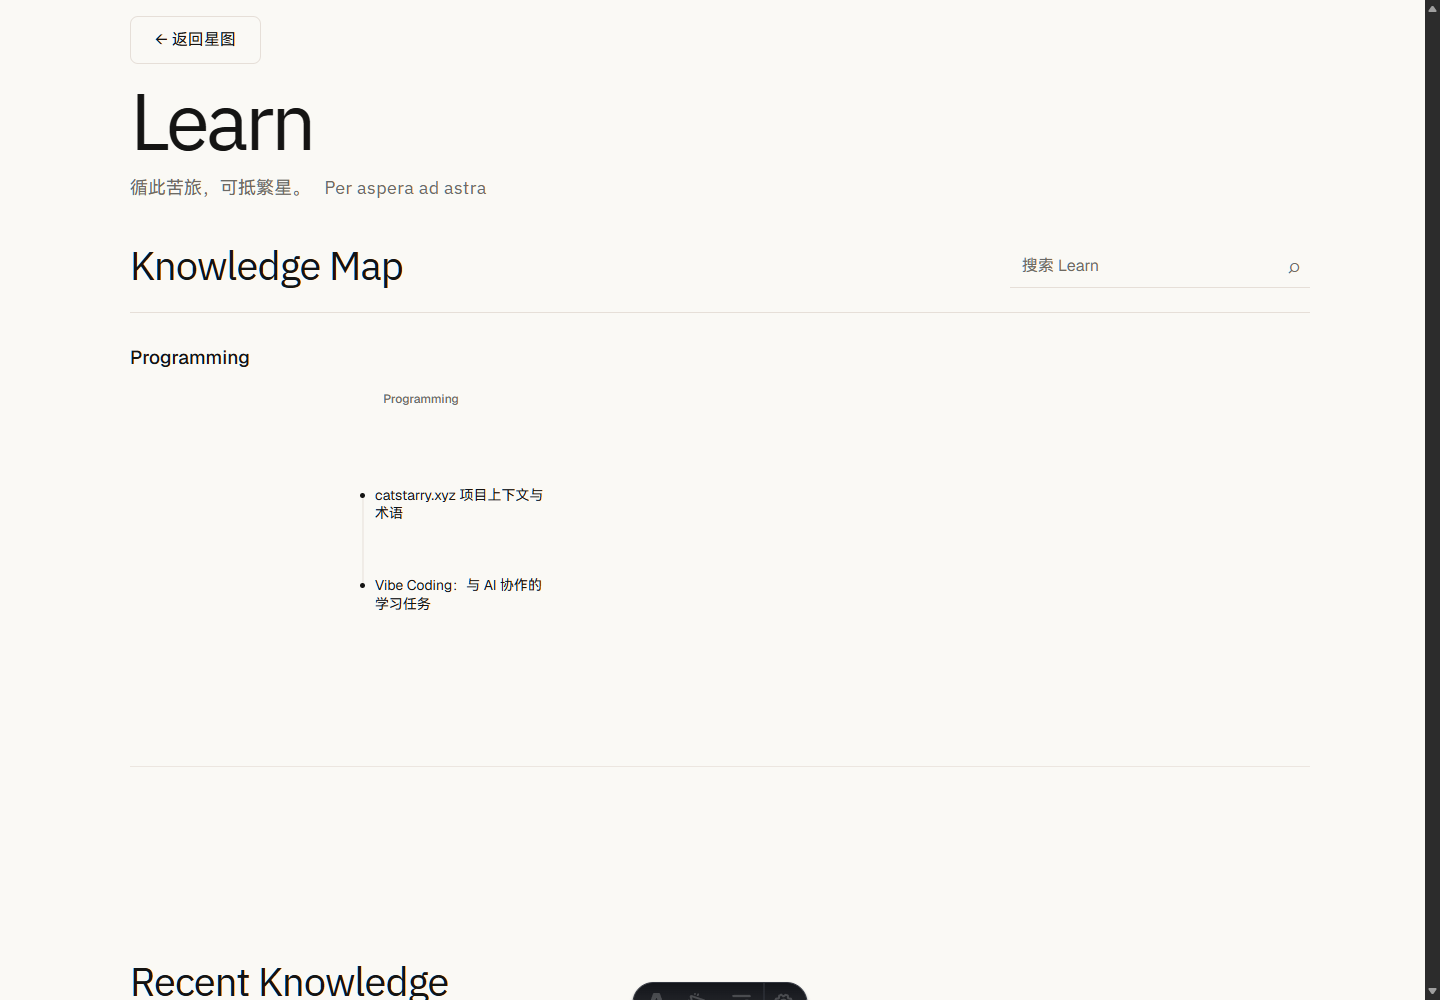
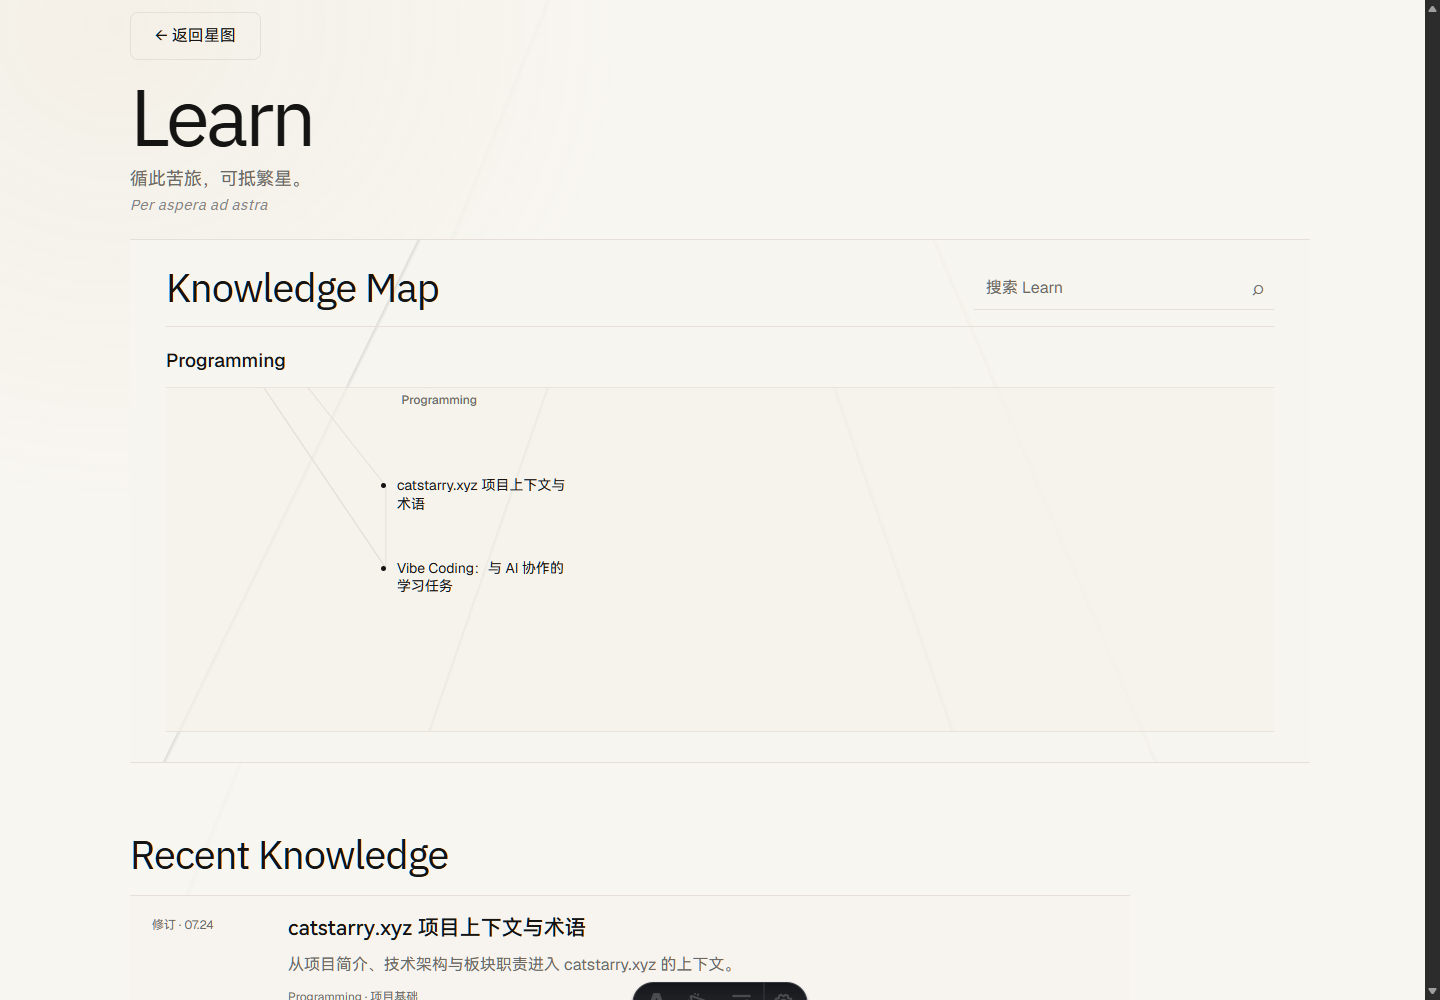
fix: restore Learn visual materiality

diff --git a/src/components/learn/learn.css b/src/components/learn/learn.css
@@ -1,8 +1,16 @@
 .learn-page,
 .learn-detail-page {
+  --learn-canvas: color-mix(in srgb, var(--content-gallery) 88%, var(--geo-cream));
+  --learn-field: color-mix(in srgb, var(--content-gallery) 72%, var(--content-surface-card));
+  --learn-field-deep: color-mix(in srgb, var(--content-gallery) 52%, var(--content-surface-card));
+  --learn-functional: color-mix(in srgb, var(--content-gallery) 58%, var(--warm-150));
+  --learn-engraving: color-mix(in srgb, var(--geo-graphite) 14%, transparent);
   min-block-size: 100svh;
   color: var(--content-text-primary);
-  background: var(--content-gallery);
+  background:
+    linear-gradient(112deg, transparent 0 28%, color-mix(in srgb, var(--geo-mineral) 5%, transparent) 28.1%, transparent 28.35%),
+    radial-gradient(ellipse at 8% 2%, color-mix(in srgb, var(--geo-sand) 9%, transparent), transparent 32rem),
+    var(--learn-canvas);
 }
 
 .learn-page *,
@@ -52,8 +60,8 @@
   display: grid;
   align-content: center;
   width: min(100%, 760px);
-  min-block-size: clamp(180px, 20vw, 210px);
-  padding-block: var(--space-md) var(--space-lg);
+  min-block-size: clamp(190px, 18vw, 210px);
+  padding-block: 12px 18px;
 }
 
 .learn-opening .page-home-nav { margin-block-end: clamp(10px, 1.4vw, 18px); }
@@ -64,24 +72,55 @@
   letter-spacing: -.045em;
 }
 .learn-opening__motto {
-  display: flex;
-  flex-wrap: wrap;
-  gap: .35em .8em;
-  margin: var(--space-md) 0 0;
+  display: grid;
+  gap: 2px;
+  justify-items: start;
+  margin: 12px 0 0;
   color: var(--content-text-secondary);
   font-size: clamp(15px, 1.4vw, 18px);
-  line-height: 1.6;
+  line-height: 1.45;
 }
-.learn-opening__motto span { font-family: var(--font-display); letter-spacing: .02em; }
-.learn-empty-corpus { margin: clamp(32px, 7vw, 96px) 0; color: var(--content-text-secondary); }
+.learn-opening__motto-cn { display: block; }
+.learn-opening__motto-latin {
+  display: block;
+  color: color-mix(in srgb, var(--content-text-secondary) 82%, var(--learn-canvas));
+  font: italic 400 .84em/1.4 var(--font-display);
+  letter-spacing: .025em;
+}
+.learn-empty-corpus {
+  min-block-size: 260px;
+  padding: 32px clamp(22px, 3vw, 36px);
+  margin: 8px 0 72px;
+  color: var(--content-text-secondary);
+  background: var(--learn-field);
+  border-block: 1px solid var(--content-hairline);
+}
 
-.learn-knowledge-map { min-block-size: clamp(500px, 45vw, 620px); padding-block: var(--space-md) var(--space-2xl); }
+.learn-knowledge-map {
+  position: relative;
+  min-block-size: 500px;
+  padding: 24px clamp(20px, 3vw, 36px) 30px;
+  margin-block-start: 6px;
+  overflow: clip;
+  background: var(--learn-field);
+  border-block: 1px solid var(--content-hairline);
+}
+.learn-knowledge-map::before {
+  position: absolute;
+  inset: 0;
+  content: '';
+  pointer-events: none;
+  background:
+    linear-gradient(116deg, transparent 0 20%, var(--learn-engraving) 20.08%, transparent 20.35%),
+    linear-gradient(67deg, transparent 0 73%, color-mix(in srgb, var(--geo-mineral) 8%, transparent) 73.1%, transparent 73.4%);
+}
+.learn-knowledge-map > * { position: relative; }
 .learn-knowledge-map__header {
   display: flex;
   gap: var(--space-xl);
   align-items: end;
   justify-content: space-between;
-  padding-block-end: var(--space-lg);
+  padding-block-end: 16px;
   border-block-end: 1px solid var(--content-hairline);
 }
 .learn-knowledge-map h2,
@@ -102,7 +141,7 @@
   padding: 9px 42px 9px 12px;
   color: var(--content-text-primary);
   font: inherit;
-  background: transparent;
+  background: color-mix(in srgb, var(--learn-functional) 76%, transparent);
   border: 0;
   border-block-end: 1px solid var(--content-hairline);
   border-radius: 0;
@@ -133,8 +172,8 @@
 .learn-track-directory {
   display: flex;
   flex-wrap: wrap;
-  gap: 6px clamp(28px, 5vw, 72px);
-  padding-block: 22px 8px;
+  gap: 4px clamp(28px, 5vw, 72px);
+  padding-block: 12px 4px;
 }
 .learn-track-directory a {
   position: relative;
@@ -159,9 +198,13 @@
 
 .learn-graph {
   position: relative;
-  height: clamp(350px, 27vw, 380px);
+  height: clamp(320px, 24vw, 350px);
   overflow: clip;
-  border-block-end: 1px solid color-mix(in srgb, var(--content-hairline) 70%, transparent);
+  background:
+    linear-gradient(109deg, transparent 0 31%, color-mix(in srgb, var(--geo-graphite) 6%, transparent) 31.08%, transparent 31.3%),
+    linear-gradient(71deg, transparent 0 64%, color-mix(in srgb, var(--geo-mineral) 9%, transparent) 64.08%, transparent 64.4%),
+    color-mix(in srgb, var(--learn-field-deep) 68%, transparent);
+  border-block: 1px solid color-mix(in srgb, var(--content-hairline) 82%, transparent);
 }
 .learn-graph__edges { position: absolute; inset: 0; width: 100%; height: 100%; overflow: visible; }
 .learn-graph__edges line {
@@ -211,14 +254,18 @@
 .learn-graph[data-active-track="art"] .learn-graph__node:not([data-track="art"]) { opacity: .42; }
 .learn-graph[data-active-track="programming"] .learn-graph__node:not([data-track="programming"]) { opacity: .42; }
 
-.learn-recent { width: min(100%, 960px); padding-block: clamp(64px, 9vw, 112px) clamp(100px, 14vw, 180px); }
-.learn-recent > h2 { margin-block-end: var(--space-xl); }
-.learn-note-rows { border-block-start: 1px solid var(--content-hairline); }
+.learn-recent { width: min(100%, 1000px); padding-block: clamp(44px, 6vw, 68px) clamp(76px, 9vw, 112px); }
+.learn-recent > h2 { margin-block-end: 18px; }
+.learn-note-rows {
+  padding-inline: clamp(14px, 2vw, 22px);
+  background: color-mix(in srgb, var(--learn-functional) 72%, transparent);
+  border-block-start: 1px solid var(--content-hairline);
+}
 .learn-note-row {
   display: grid;
   grid-template-columns: minmax(0, 1fr);
-  gap: var(--space-lg);
-  padding-block: var(--space-lg);
+  gap: 18px;
+  padding-block: 18px;
   border-block-end: 1px solid var(--content-hairline);
 }
 .learn-note-row--recent { grid-template-columns: 118px minmax(0, 1fr); }
@@ -230,23 +277,44 @@
 .learn-note-row__context { margin: 10px 0 0; color: var(--content-text-secondary); font-size: var(--text-xs); }
 
 .learn-track-shell { width: min(1180px, calc(100% - 2 * clamp(24px, 5vw, 80px))); margin-inline: auto; }
-.learn-track-header { width: min(100%, 880px); padding-block: clamp(48px, 8vw, 104px) clamp(36px, 5vw, 72px); }
+.learn-track-header { width: min(100%, 880px); padding-block: clamp(36px, 5vw, 64px) clamp(28px, 4vw, 44px); }
 .learn-track-header h1 { margin: 20px 0 16px; font: 400 clamp(3rem, 7vw, 5.4rem)/1 var(--font-display); letter-spacing: -.045em; }
 .learn-track-header p { max-width: 720px; margin: 0; color: var(--content-text-secondary); font-size: clamp(16px, 1.5vw, 19px); line-height: 1.75; }
 .learn-track-header,
 .learn-section-nav,
 .learn-track-groups { margin-inline: auto; }
-.learn-section-nav { display: flex; flex-wrap: wrap; gap: 8px 28px; max-width: 1000px; padding-block: 18px; border-block: 1px solid var(--content-hairline); }
+.learn-section-nav {
+  display: flex;
+  flex-wrap: wrap;
+  gap: 6px 28px;
+  max-width: 1000px;
+  padding: 12px 18px;
+  background: var(--learn-functional);
+  border-block: 1px solid var(--content-hairline);
+}
 .learn-section-nav a { display: inline-flex; min-block-size: var(--interaction-hit-size); align-items: center; color: var(--content-text-secondary); text-decoration: none; }
 .learn-section-nav a:is(:hover, :focus-visible) { color: var(--klein-500); }
-.learn-track-groups { width: min(100%, 1000px); padding-block: clamp(48px, 7vw, 88px); }
-.learn-track-section + .learn-track-section { margin-block-start: clamp(56px, 8vw, 96px); }
+.learn-track-groups {
+  width: min(100%, 1000px);
+  padding: clamp(34px, 5vw, 56px) clamp(18px, 3vw, 34px);
+  background:
+    linear-gradient(114deg, transparent 0 78%, color-mix(in srgb, var(--geo-mineral) 7%, transparent) 78.08%, transparent 78.35%),
+    var(--learn-field);
+  border-block-end: 1px solid var(--content-hairline);
+}
+.learn-track-section + .learn-track-section { margin-block-start: clamp(40px, 5vw, 64px); }
 .learn-track-section h2 { margin-block-end: 18px; font: 500 clamp(22px, 2.6vw, 32px)/1.3 var(--font-cjk); }
-.learn-track-return { margin-block: 0 clamp(96px, 14vw, 180px); }
+.learn-track-return { margin-block: 28px clamp(64px, 9vw, 96px); }
 
 .learn-detail-page__shell { width: min(1220px, calc(100% - 2 * clamp(20px, 4vw, 64px))); margin-inline: auto; }
-.learn-detail-page__shell > .learn-detail-page__back { margin-block-start: clamp(24px, 4vw, 56px); }
-.learn-detail-page__header { width: min(100%, 880px); margin-inline: auto; padding-block: clamp(52px, 7vw, 96px) clamp(48px, 6vw, 76px); }
+.learn-detail-page__shell > .learn-detail-page__back { margin-block-start: clamp(20px, 3vw, 36px); }
+.learn-detail-page__header {
+  width: min(100%, 920px);
+  margin-inline: auto;
+  padding: clamp(38px, 5vw, 62px) clamp(20px, 3vw, 36px) clamp(34px, 4vw, 50px);
+  background: color-mix(in srgb, var(--learn-field) 70%, transparent);
+  border-block-end: 1px solid var(--content-hairline);
+}
 .learn-detail-page__context { margin: 0 0 12px; color: var(--content-text-secondary); }
 .learn-detail-page__context a { color: inherit; text-decoration: none; }
 .learn-detail-page__context a:is(:hover, :focus-visible) { color: var(--klein-500); }
@@ -254,11 +322,33 @@
 .learn-detail-page__header h1 { margin: 22px 0 20px; font: 500 clamp(2.5rem, 5.8vw, 5rem)/1.08 var(--font-cjk); letter-spacing: -.035em; text-wrap: balance; }
 .learn-detail-page__excerpt { max-width: 760px; margin: 0; color: var(--content-text-secondary); font-size: clamp(17px, 1.7vw, 21px); line-height: 1.75; text-wrap: pretty; }
 
-.learn-reading-layout { width: min(100%, 760px); margin-inline: auto; }
-.learn-reading-layout--related { display: grid; grid-template-columns: minmax(170px, 210px) minmax(0, 760px); gap: clamp(48px, 6vw, 80px); width: min(100%, 1010px); }
-.learn-related { align-self: start; position: sticky; inset-block-start: 32px; max-block-size: calc(100svh - 64px); overflow: hidden; padding-block-start: 4px; }
+.learn-reading-layout {
+  width: min(100%, 840px);
+  padding: clamp(28px, 4vw, 40px);
+  margin-inline: auto;
+  background:
+    linear-gradient(68deg, transparent 0 86%, color-mix(in srgb, var(--geo-mineral) 7%, transparent) 86.08%, transparent 86.4%),
+    var(--learn-field);
+  border-block-end: 1px solid var(--content-hairline);
+}
+.learn-reading-layout--related {
+  display: grid;
+  grid-template-columns: minmax(170px, 190px) minmax(0, 760px);
+  gap: clamp(36px, 4vw, 52px);
+  width: min(100%, 1090px);
+}
+.learn-related {
+  align-self: start;
+  position: sticky;
+  inset-block-start: 28px;
+  max-block-size: calc(100svh - 56px);
+  overflow: hidden;
+  padding: 16px 14px;
+  background: var(--learn-functional);
+  border-block-start: 1px solid color-mix(in srgb, var(--geo-graphite) 20%, var(--content-hairline));
+}
 .learn-related h2 { color: var(--content-text-secondary); font-size: var(--text-sm); font-weight: 500; }
-.learn-related ul { display: grid; gap: 20px; padding: 0; margin: 22px 0 0; list-style: none; }
+.learn-related ul { display: grid; gap: 16px; padding: 0; margin: 16px 0 0; list-style: none; }
 .learn-related a { color: var(--content-text-primary); font-size: var(--text-sm); line-height: 1.55; text-decoration: none; overflow-wrap: anywhere; }
 .learn-related a:is(:hover, :focus-visible) { color: var(--klein-500); }
 .learn-related li span { display: block; margin-block-start: 5px; color: var(--content-text-secondary); font-size: var(--text-xs); }
@@ -266,8 +356,8 @@
 .learn-note-body { min-width: 0; color: var(--content-text-body); font-family: var(--font-cjk); font-size: 17px; line-height: var(--line-height-body-cjk); overflow-wrap: anywhere; text-wrap: pretty; }
 .learn-note-body > :first-child { margin-block-start: 0; }
 .learn-note-body h1 { font-size: 2.2rem; }
-.learn-note-body h2 { margin: clamp(64px, 9vw, 96px) 0 24px; color: var(--content-text-primary); font: 500 clamp(1.7rem, 3.5vw, 2.3rem)/1.3 var(--font-cjk); letter-spacing: -.02em; }
-.learn-note-body h3 { margin: 44px 0 18px; color: var(--content-text-primary); font: 500 clamp(1.25rem, 2.5vw, 1.55rem)/1.4 var(--font-cjk); }
+.learn-note-body h2 { margin: clamp(52px, 7vw, 72px) 0 22px; color: var(--content-text-primary); font: 500 clamp(1.7rem, 3.5vw, 2.3rem)/1.3 var(--font-cjk); letter-spacing: -.02em; }
+.learn-note-body h3 { margin: 38px 0 16px; color: var(--content-text-primary); font: 500 clamp(1.25rem, 2.5vw, 1.55rem)/1.4 var(--font-cjk); }
 .learn-note-body p { margin: 0 0 1.45em; }
 .learn-note-body ul,
 .learn-note-body ol { padding-inline-start: 1.35em; }
@@ -281,7 +371,7 @@
 .learn-note-body th,
 .learn-note-body td { padding: 10px 14px; text-align: start; border-block-end: 1px solid var(--content-hairline); }
 .learn-note-body img { max-width: 100%; height: auto; border-radius: var(--radius-sm); }
-.learn-note-ending { width: min(100%, 760px); padding-block: clamp(72px, 10vw, 120px); margin-inline: auto; border-block-start: 1px solid var(--content-hairline); }
+.learn-note-ending { width: min(100%, 760px); padding-block: clamp(52px, 7vw, 76px); margin-inline: auto; border-block-start: 1px solid var(--content-hairline); }
 
 .learn-wikilink { position: relative; display: inline; }
 .learn-wikilink__link { text-decoration-style: dotted; }
@@ -326,37 +416,38 @@
 .learn-admin-error { padding: 16px; color: #8f2431; border: 1px solid #8f2431; }
 
 @media (max-width: 860px) {
-  .learn-reading-layout--related { grid-template-columns: 1fr; width: min(100%, 760px); }
-  .learn-related { position: static; grid-row: 2; max-block-size: none; padding-block: 48px 0; border-block-start: 1px solid var(--content-hairline); }
-  .learn-note-ending { margin-block-start: 48px; }
+  .learn-reading-layout--related { grid-template-columns: 1fr; width: min(100%, 840px); }
+  .learn-related { position: static; grid-row: 2; max-block-size: none; padding: 24px 20px; margin-block-start: 32px; }
+  .learn-note-ending { margin-block-start: 36px; }
 }
 
 @media (max-width: 640px) {
   .learn-page__shell,
   .learn-track-shell,
   .learn-detail-page__shell { width: calc(100% - 40px); }
-  .learn-opening { min-block-size: 190px; padding-block-start: 12px; }
+  .learn-opening { min-block-size: 190px; padding-block-start: 10px; }
   .learn-opening h1 { font-size: clamp(3.4rem, 19vw, 4.6rem); }
-  .learn-opening__motto { display: grid; gap: 2px; }
+  .learn-knowledge-map { min-block-size: 0; padding: 20px 14px 24px; }
   .learn-knowledge-map__header { display: grid; gap: 18px; }
   .learn-search { width: 100%; }
-  .learn-track-directory { gap: 4px 22px; padding-block: 14px 8px; }
+  .learn-track-directory { gap: 4px 22px; padding-block: 10px 4px; }
   .learn-track-directory a { grid-template-columns: auto; font-size: 16px; }
   .learn-track-directory__count { display: none; }
   .learn-graph { height: clamp(600px, 95svh, 820px); }
   .learn-graph__region-label { inset: var(--mobile-y) auto auto 0; transform: none; }
   .learn-graph__node { inset: var(--mobile-y) auto auto var(--mobile-x); grid-template-columns: 16px minmax(90px, 160px); transform: translate(-8px, -8px); }
   .learn-graph__label { font-size: 13px; }
-  .learn-recent { padding-block: 72px 120px; }
+  .learn-recent { padding-block: 44px 80px; }
   .learn-note-row--recent { grid-template-columns: 1fr; gap: 8px; }
   .learn-note-row__event { order: 2; }
-  .learn-track-header { padding-block: 42px 52px; }
+  .learn-track-header { padding-block: 34px 38px; }
   .learn-track-header h1 { font-size: clamp(2.8rem, 15vw, 3.75rem); }
   .learn-section-nav { gap-inline: 20px; }
-  .learn-detail-page__header { padding-block: 44px 56px; }
+  .learn-detail-page__header { padding: 34px 18px 38px; }
   .learn-detail-page__header h1 { font-size: clamp(2.35rem, 12vw, 3.6rem); }
   .learn-note-body { font-size: 16px; }
-  .learn-note-body h2 { margin-block-start: 64px; }
+  .learn-reading-layout { padding: 28px 18px; }
+  .learn-note-body h2 { margin-block-start: 52px; }
   .learn-wikilink__preview { display: none; }
   .learn-preview-chrome { align-items: start; flex-direction: column; }
   .learn-admin-row { grid-template-columns: 1fr auto; }

diff --git a/.scratch/learn-visual-reality-check/implementation-report.md b/.scratch/learn-visual-reality-check/implementation-report.md
@@ -2,14 +2,14 @@
 
 **Verdict:** READY WITH BLOCKED MIGRATION ITEMS
 **Branch:** `task/learn-visual-reality-check`
-**Implementation baseline:** `393c9cb`
+**Implementation baseline:** `b026fd6`
 **Date:** 2026-08-13
 
 ## Accepted Delta implementation map
 
 | Delta area | Status | Evidence |
 |---|---|---|
-| A1–A3 Opening / hierarchy / one Knowledge Map | IMPLEMENTED | Home screenshot; 226px opening, 620px map, Recent begins at 846px |
+| A1–A3 Opening / hierarchy / one Knowledge Map | IMPLEMENTED | Fixed two-line motto; 233px rendered opening, 525px warm Knowledge Field, Recent begins at 763px |
 | A4 Track Directory | IMPLEMENTED | Plain links; count hover/focus without width change; mobile hides auxiliary count |
 | A5–A8 Graph | IMPLEMENTED | Cream surface, Track-aware deterministic positions, normalized edges, labels, Klein interaction, mobile reflow |
 | A9 Search | IMPLEMENTED | Non-sticky compact search; title/Track/Section/tags index; Home remains visible |
@@ -23,6 +23,15 @@
 | Invalid historical public content removal | BLOCKED | Five old public destinations retained until MR-08 evidence exists |
 | Empty / sparse rendered screenshots | IMPLEMENTED | Controlled evidence removes current real nodes/regions only; no fake public corpus or extra product route was introduced |
 | Shared Footer | REVALIDATE | Explicitly outside Learn implementation authority |
+
+## LHF summary
+
+`PASS 209 / SUPERSEDED 3 / BLOCKED 1 / REVALIDATE 1 = 214`
+
+- LHF-004 / LHF-005: superseded by the A0 accepted two-line motto.
+- LHF-176: superseded by Admin v1 Preview-only authority.
+- LHF-182: blocked by MR-08 production historical destination evidence.
+- LHF-214: revalidate at Family level.
 
 ## Validation
 
@@ -47,10 +56,17 @@ Blocked local harness:
 - Home: `implementation-evidence/home-desktop-1440x1000.png`
 - Empty/sparse: `home-empty-controlled-1440x1000.png`, `home-sparse-controlled-1440x1000.png`
 - Knowledge Map: resting, node hover/focus, Track hover, active Search, portrait mobile under `implementation-evidence/`
-- Track: `track-programming-{1760,1000,768,390}.png`
+- Track: `track-programming-{1760,1440,1000,768,390}.png`
 - Note: desktop related, zero relations, mobile related, Wikilink preview under `implementation-evidence/`
 - Admin / Preview: desktop and mobile screenshots under `implementation-evidence/`
 - Measurements and interaction results: `implementation-evidence/implementation-reality.json`
+
+## 2026-08-13 visual correction
+
+- Locked the Chinese and Latin motto to separate lines at every viewport.
+- Added Learn-local warm material hierarchy without changing shared Cream Gallery tokens.
+- Reduced excessive vertical gaps across Home, Track, and Note while preserving the accepted IA.
+- Retained frameless composition, direct Cream continuity, local overflow containment, and mobile relation ordering.
 
 The dark floating control strip visible in some screenshots belongs to the isolated browser capture environment, not the site DOM.
 

diff --git a/.scratch/learn-visual-reality-check/lhf-coverage.md b/.scratch/learn-visual-reality-check/lhf-coverage.md
@@ -8,8 +8,8 @@
 
 | Status | Count |
 |---|---:|
-| PASS | 211 |
-| SUPERSEDED | 1 |
+| PASS | 209 |
+| SUPERSEDED | 3 |
 | BLOCKED | 1 |
 | REVALIDATE | 1 |
 | **Total** | **214** |
@@ -43,8 +43,8 @@
 | LHF-001 | Opening | `/learn` top-level exit = `← 返回星图` | 实现与 Accepted Delta 及当前代码／渲染／交互证据一致 | I-JSON / I-SCREEN / S-IMPLEMENTATION | **PASS** | 已实现；见 implementation evidence |
 | LHF-002 | Opening | No `LEARNING RECORDS` | 实现与 Accepted Delta 及当前代码／渲染／交互证据一致 | I-JSON / I-SCREEN / S-IMPLEMENTATION | **PASS** | 已实现；见 implementation evidence |
 | LHF-003 | Opening | H1 = `Learn` | 实现与 Accepted Delta 及当前代码／渲染／交互证据一致 | I-JSON / I-SCREEN / S-IMPLEMENTATION | **PASS** | 已实现；见 implementation evidence |
-| LHF-004 | Opening | Intro explains durable knowledge, not learning process log | 实现与 Accepted Delta 及当前代码／渲染／交互证据一致 | I-JSON / I-SCREEN / S-IMPLEMENTATION | **PASS** | 已实现；见 implementation evidence |
-| LHF-005 | Opening | Recommended copy: `这里放的是经过系统学习后，值得长期保留、以后还会回来看的一些理解。` | 实现与 Accepted Delta 及当前代码／渲染／交互证据一致 | I-JSON / I-SCREEN / S-IMPLEMENTATION | **PASS** | 已实现；见 implementation evidence |
+| LHF-004 | Opening | Intro explains durable knowledge, not learning process log | A0 不再要求 explanatory durable-knowledge intro；Opening 使用 accepted two-line motto | I-JSON / I-SCREEN / S-IMPLEMENTATION | **SUPERSEDED** | SUPERSEDED BY A0 |
+| LHF-005 | Opening | Recommended copy: `这里放的是经过系统学习后，值得长期保留、以后还会回来看的一些理解。` | A0 以固定两行 `循此苦旅，可抵繁星。` / `Per aspera ad astra` 替换旧推荐文案 | I-JSON / I-SCREEN / S-IMPLEMENTATION | **SUPERSEDED** | SUPERSEDED BY A0 |
 | LHF-006 | Opening | No header count pill | 实现与 Accepted Delta 及当前代码／渲染／交互证据一致 | I-JSON / I-SCREEN / S-IMPLEMENTATION | **PASS** | 已实现；见 implementation evidence |
 | LHF-007 | Opening | No category-colored eyebrow required | 实现与 Accepted Delta 及当前代码／渲染／交互证据一致 | I-JSON / I-SCREEN / S-IMPLEMENTATION | **PASS** | 已实现；见 implementation evidence |
 | LHF-008 | Opening | Opening remains Cream Canvas | 实现与 Accepted Delta 及当前代码／渲染／交互证据一致 | I-JSON / I-SCREEN / S-IMPLEMENTATION | **PASS** | 已实现；见 implementation evidence |
